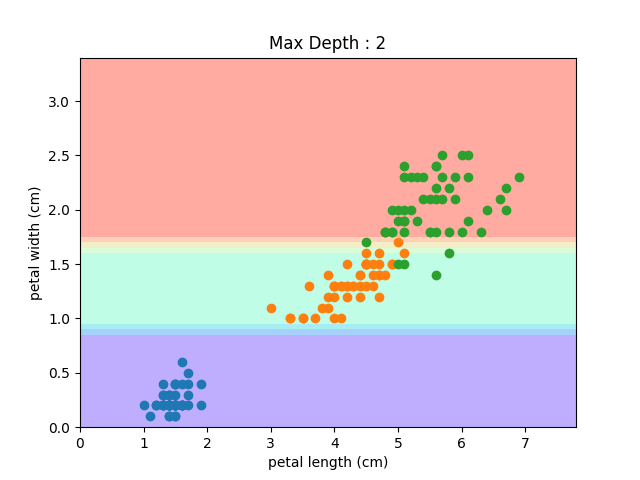
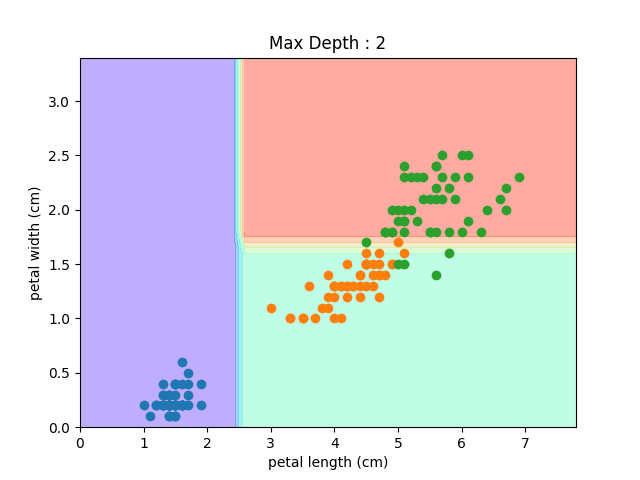
added visualization

Changed region(s): [[0.125, 0.125, 0.9062, 0.9062], [0.7188, 0.5, 0.9062, 0.5312], [0.6562, 0.5, 0.6875, 0.5312]]

diff --git a/random_forest.py b/random_forest.py
@@ -1,6 +1,7 @@
 # ランダムフォレストの実装
 
 import numpy as np
+import matplotlib.pyplot as plt
 from scipy.stats import mode
 from sklearn import datasets
 from sklearn.model_selection import train_test_split
@@ -68,13 +69,62 @@ class RandomForestClassifier():
         return accuracy
 
 
+# 2次元で図示 (Petal lengthをx軸、Petal widthをy軸として表示)
+# 使用する特徴量も2つになる点には注意
+def visualize(max_depth=None):
+    iris_dataset = datasets.load_iris()
+    petal_features = iris_dataset['data'][:, 2:]
+    targets = iris_dataset['target']
+
+    if max_depth is None:
+        # 決定木の最大深度は制限しない
+        clf = RandomForestClassifier()
+    else:
+        clf = RandomForestClassifier(max_depth=max_depth)
+    
+    clf.fit(petal_features, targets)
+
+    # データの取りうる範囲 +-1 を計算する
+    x_min = max(0, petal_features[:, 0].min() - 1)
+    y_min = max(0, petal_features[:, 1].min() - 1)
+    x_max = petal_features[:, 0].max() + 1
+    y_max = petal_features[:, 1].max() + 1
+
+    # 教師データの取りうる範囲でメッシュ状の座標を作る
+    grid_interval = 0.2
+    xx, yy = np.meshgrid(
+        np.arange(x_min, x_max, grid_interval),
+        np.arange(y_min, y_max, grid_interval))
+
+    # メッシュの座標を学習したモデルで判定させる
+    Z = clf.predict(np.c_[xx.ravel(), yy.ravel()])
+    # 各点の判定結果をグラフに描画する
+    plt.contourf(xx, yy, Z.reshape(xx.shape), cmap=plt.cm.rainbow, alpha=0.4)
+
+    # データもプロット
+    for c in np.unique(targets):
+        plt.scatter(petal_features[targets == c, 0],
+                    petal_features[targets == c, 1])
+
+    feature_names = iris_dataset['feature_names']
+    plt.xlabel(feature_names[2])
+    plt.ylabel(feature_names[3])
+    if max_depth is None:
+        plt.title('Max Depth : No Limitation')
+        #plt.show()
+        plt.savefig('figures/Random_Forest_no_limit.png')
+    else:
+        plt.title('Max Depth : ' + str(max_depth))
+        #plt.show()
+        plt.savefig('figures/Random_Forest_depth_{}.png'.format(max_depth))
+
+
 
 def main():
     iris_dataset = datasets.load_iris()
-    X_train, X_test, y_train, y_test = train_test_split(iris_dataset['data'], iris_dataset['target'], test_size=0.25,  random_state=0)
+    X_train, X_test, y_train, y_test = train_test_split(iris_dataset['data'], iris_dataset['target'], test_size=0.3,  random_state=0)
 
-    # 各決定木のmax_depthが小さくても、Random Forestならば、高い精度が出せることが分かる
-    random_forest = RandomForestClassifier(max_depth=3)
+    random_forest = RandomForestClassifier()
     random_forest.fit(X_train, y_train)
 
     accuracy = random_forest.accuracy_score(X_test, y_test)
@@ -87,3 +137,4 @@ def main():
 
 if __name__ == '__main__':
     main()
+    visualize()

diff --git a/decision_tree.py b/decision_tree.py
@@ -204,7 +204,7 @@ def visualize(max_depth=None):
 
 def main():
     iris_dataset = datasets.load_iris()
-    X_train, X_test, y_train, y_test = train_test_split(iris_dataset['data'], iris_dataset['target'], test_size=0.25,  random_state=0)
+    X_train, X_test, y_train, y_test = train_test_split(iris_dataset['data'], iris_dataset['target'], test_size=0.3,  random_state=0)
 
     # 全ての特徴量を使用したときの精度を調べる
     decision_tree = DecisionTreeClassifier()
